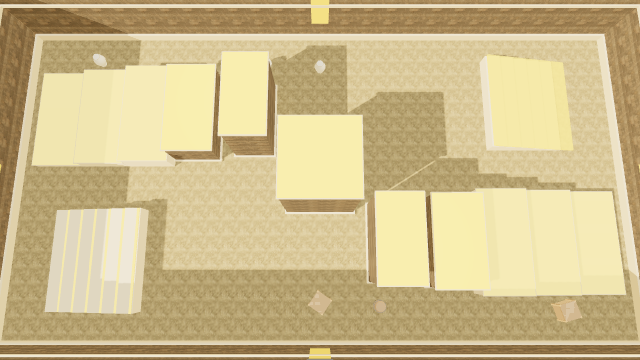
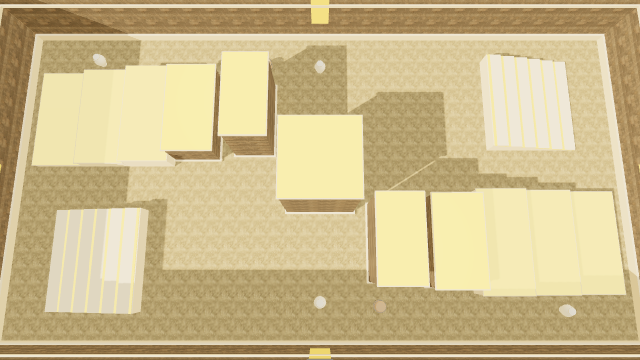
Batch 65: every arena is the same from either end
"In skyward temple, on one side there is a ramp and on the other side there are
stairs... The arenas should all have perfect 180 degree rotational symmetry, so
that both players have the exact same situation for every map."

tests/symmetrycheck.js asserts it rather than eyeballing it: rotate every piece
180 degrees about the arena centre and it must land on another piece of the same
kind and size. Run against the map DATA first - platforms, terrain, pillars,
hazards and the two spawns, on all ten arenas - and all ten passed. So the data
was never the problem, and the asymmetry was everything built on top of it:

- The scenery SPOTS were symmetric but the prop TYPE was chosen by list index:
  spot 0 at (L+200, T+90) and its opposite number, spot 5 at (R-200, B-90), got
  set[0] and set[1]. Every pair on every arena was two different objects. On
  Skyward Temple that is a ramp facing a set of stairs.
- Rotation was `mapRng() * Math.PI` per prop, so even matching pairs faced
  different ways.
- The prop builders draw their own shape from Math.random() - a rock's lumps, a
  bush's leaves, an ice shard's spikes - so calling a builder twice makes two
  different objects however carefully they are placed. Same for pillars,
  platforms and terrain.
- The four outer walls generate their skylines from a shared RNG stream, so the
  north wall never matched the south.

One helper now expresses the rule for all of it: buildPairedFromData walks the
[…]

Changed region(s): [[0.75, 0.1528, 0.9062, 0.4278], [0.8438, 0.825, 0.9062, 0.9167], [0.4688, 0.7944, 0.5312, 0.8861]]

diff --git a/index.html b/index.html
@@ -3394,6 +3394,9 @@ function worldZ(y) { return y - ARENA_CY; }
 function hashStr(s) { let h = 1779033703 ^ s.length; for (let i = 0; i < s.length; i++) { h = Math.imul(h ^ s.charCodeAt(i), 3432918353); h = h << 13 | h >>> 19; } return h >>> 0; }
 function mulberry32(a) { return function () { a |= 0; a = a + 0x6D2B79F5 | 0; let t = Math.imul(a ^ a >>> 15, 1 | a); t = t + Math.imul(t ^ t >>> 7, 61 | t) ^ t; return ((t ^ t >>> 14) >>> 0) / 4294967296; }; }
 let mapRng = Math.random; // reseeded per map in loadMap()
+// The name the current seeds derive from. buildOuterWall reseeds per wall PAIR
+// (see the note there) and needs the same source the map's own seed came from.
+let currentMapName = '';
 
 // Batch 31: TOUCH_UI is gone along with the touch control scheme. It used to
 // select a reduced-quality renderer path (no antialias, no shadows, pixel
@@ -5496,6 +5499,44 @@ function buildPillarMesh(ob, theme) {
 // A solid block: short ones read as jump-on cover platforms, tall ones as
 // full interior walls (collision is the same). Uses the theme wall texture
 // so interior cover matches the perimeter, with a glowing accent-trimmed top.
+// BUILD ONE OF EACH PAIR, CLONE THE OTHER.
+//
+// "The arenas should all have perfect 180 degree rotational symmetry, so that
+// both players have the exact same situation for every map."
+//
+// The map DATA has always been symmetric - symmetrycheck asserts it for all ten
+// arenas - but the builders decorate with Math.random(), so two calls for two
+// mirrored positions produce two different objects. That is what the report
+// "on one side there is a ramp and on the other side there are stairs" was.
+//
+// So: walk the authored list, build the first of each rotational pair, and
+// clone the second with its facing a half-turn further round. A clone shares
+// geometry and materials, so this is also cheaper than building both.
+//
+// `build` is expected to position its result and add it to mapGroup (which is
+// what the existing builders do), so the clone is placed and added here. Getting
+// that wrong left two of Voltaic Nexus's four pillars built but never in the
+// scene.
+function buildPairedFromData(list, build) {
+    const CX = (ARENA_LEFT + ARENA_RIGHT) / 2, CY = (ARENA_TOP + ARENA_BOTTOM) / 2;
+    const built = [];
+    for (const item of list) {
+        const twin = built.find(b => Math.abs(b.x - (2 * CX - item.x)) < 2
+                                  && Math.abs(b.y - (2 * CY - item.y)) < 2);
+        let mesh;
+        if (twin) {
+            mesh = twin.mesh.clone();
+            mesh.position.set(worldX(item.x), twin.mesh.position.y, worldZ(item.y));
+            mesh.rotation.y = twin.mesh.rotation.y + Math.PI;
+            mapGroup.add(mesh);
+        } else {
+            mesh = build(item);
+        }
+        built.push({ x: item.x, y: item.y, mesh });
+        mapEdgeObjects.push({ mesh, x: item.x, y: item.y });
+    }
+}
+
 function buildPlatformMesh(p, theme) {
     const group = new THREE.Group();
     // Batch 34: was `getWallTexture(theme).clone()` per platform. The clone
@@ -5656,6 +5697,18 @@ let outerWalls = []; // {mesh, side, baseLen} — the 4 enclosing walls; syncAre
 // so a uniform group.scale along local X shrinks the run.
 function buildOuterWall(side, theme) {
     const runX = (side === 'top' || side === 'bottom');
+    // OPPOSITE WALLS DRAW THE SAME NUMBERS.
+    //
+    // The skyline - battlements, ivy, ice spikes - comes out of mapRng(), which
+    // is a stream: each wall pulls different values, so the north wall never
+    // matched the south. Under "perfect 180 degree rotational symmetry, so that
+    // both players have the exact same situation", that is the same defect as a
+    // ramp facing a set of stairs, only further away.
+    //
+    // Reseeding per PAIR gives the two walls of an axis an identical skyline,
+    // while the map name still decides what that skyline is - so every arena
+    // keeps its own look and reloads identically.
+    mapRng = mulberry32(hashStr(currentMapName + ':wall:' + (runX ? 'x' : 'y')));
     const along = runX ? (ARENA_RIGHT - ARENA_LEFT) : (ARENA_BOTTOM - ARENA_TOP);
     const wtex = getTiledWallTexture(theme,           // Batch 34: see buildPlatformMesh
         Math.max(3, Math.round(along / 80)),
@@ -5748,6 +5801,7 @@ function loadMap(map) {
     mapEdgeObjects = [];
     outerWalls = [];
     sceneryFlames.length = 0; // drop references to the previous map's (now-disposed) brazier flames
+    currentMapName = map.name;
     mapRng = mulberry32(hashStr(map.name)); // deterministic skyline + prop layout for this map
 
     const theme = themeFor(map);
@@ -5826,9 +5880,13 @@ function loadMap(map) {
     // OBSTACLES, not map.obstacles: in Zone Control the centre ones were just
     // filtered out, and building their meshes anyway would leave a column you
     // can see and walk through.
-    OBSTACLES.forEach(ob => mapEdgeObjects.push({ mesh: buildPillarMesh(ob, theme), x: ob.x, y: ob.y }));
-    TERRAIN.forEach(t => mapEdgeObjects.push({ mesh: (t.type === 'ramp' ? buildRampMesh : buildStepMesh)(t, theme), x: t.x, y: t.y }));
-    PLATFORMS.forEach(p => mapEdgeObjects.push({ mesh: buildPlatformMesh(p, theme), x: p.x, y: p.y }));
+    buildPairedFromData(OBSTACLES, ob => buildPillarMesh(ob, theme));
+    // ...and the ground pieces. A ramp and a step are different builders, so
+    // the pair carries its own: whichever the data asks for, its opposite
+    // number is a clone of the same thing. This is the reported case verbatim -
+    // "on one side there is a ramp and on the other side there are stairs".
+    buildPairedFromData(TERRAIN, t => (t.type === 'ramp' ? buildRampMesh : buildStepMesh)(t, theme));
+    buildPairedFromData(PLATFORMS, p => buildPlatformMesh(p, theme));
     buildScenery(map, theme); // decorative + collidable props, themed per map
 
     assertSpawnsClear(map);
@@ -6010,10 +6068,46 @@ function _makeProp(type, theme) {
 function _propRadius(type) { return { barrel: 16, urn: 15, bush: 18, rock: 16, boulder: 22, shard: 16, pylon: 14 }[type] || 20; }
 
 function buildScenery(map, theme) {
+    // Its own seed, because buildOuterWall now reseeds per wall pair and would
+    // otherwise leave the stream wherever the last wall finished - which would
+    // make a map's prop layout depend on wall-building order.
+    mapRng = mulberry32(hashStr(map.name + ':props'));
     const L = ARENA_LEFT, R = ARENA_RIGHT, T = ARENA_TOP, B = ARENA_BOTTOM, accent = theme.accent, sc = theme.scenery;
-    const addSolid = (mesh, x, y, r) => {
-        mesh.position.set(worldX(x), 0, worldZ(y)); mesh.rotation.y = mapRng() * Math.PI;
+    // ROTATION IS PASSED IN, not rolled here. It used to be
+    // `mapRng() * Math.PI` per prop, which meant that even where two props
+    // were a matched pair they faced different ways - see addPair.
+    const addSolid = (mesh, x, y, r, rotY) => {
+        mesh.position.set(worldX(x), 0, worldZ(y));
+        mesh.rotation.y = rotY != null ? rotY : mapRng() * Math.PI;
         mapGroup.add(mesh); OBSTACLES.push({ x, y, r, seed: 0 }); mapEdgeObjects.push({ mesh, x, y });
+    };
+    // EVERY PROP IS PLACED WITH ITS OPPOSITE NUMBER.
+    //
+    // "The arenas should all have perfect 180 degree rotational symmetry, so
+    // that both players have the exact same situation for every map." The
+    // arena geometry already was; the decoration was not, because the spots
+    // were symmetric while the prop TYPE was picked by list index - spot 0 and
+    // its opposite, spot 5, got set[0] and set[1]. Reported as a ramp on one
+    // side and stairs on the other.
+    //
+    // A pair is one call now: the partner's position is derived by rotating
+    // about the arena centre and its facing is exactly pi further round, so the
+    // two cannot drift apart however the list is edited later.
+    const CX = (ARENA_LEFT + ARENA_RIGHT) / 2, CY = (ARENA_TOP + ARENA_BOTTOM) / 2;
+    const addPair = (make, x, y, r) => {
+        const rotY = mapRng() * Math.PI;
+        // BUILT ONCE AND CLONED. The prop builders use Math.random() for their
+        // own shape - a rock's lumps, a bush's leaves, an ice shard's spikes -
+        // so calling the builder twice makes two different objects however
+        // carefully they are placed. A clone shares geometry and materials, so
+        // the pair is the same object seen from the other end of the arena, and
+        // it costs less than building it twice did.
+        const first = make();
+        for (const [px, py, pr, mesh] of [[x, y, rotY, first],
+                                          [2 * CX - x, 2 * CY - y, rotY + Math.PI, first.clone()]]) {
+            if (nearSpawnPt(map, px, py, 80) || spotBlocked(px, py, r + 8)) continue;
+            addSolid(mesh, px, py, r, pr);
+        }
     };
     // Corner accent prop varies by theme (a fire brazier for stone arenas, a
     // glowing pylon / ice shard / boulder / bush otherwise).
@@ -6023,9 +6117,9 @@ function buildScenery(map, theme) {
         celestial: () => buildTechPylon(theme)
     }[sc] || (() => buildBrazier(accent)); // volcanic/temple/castle get fire braziers
     const inset = 110;
-    for (const [x, y] of [[L + inset, T + inset], [R - inset, T + inset], [L + inset, B - inset], [R - inset, B - inset]]) {
-        if (nearSpawnPt(map, x, y, 90) || spotBlocked(x, y, 30)) continue;
-        addSolid(cornerBuild(), x, y, sc === 'canyon' ? 20 : 14);
+    // Two pairs, not four corners: the far corner of each is derived.
+    for (const [x, y] of [[L + inset, T + inset], [R - inset, T + inset]]) {
+        addPair(cornerBuild, x, y, sc === 'canyon' ? 20 : 14);
     }
     // Scattered solid props (theme-specific set), skipping spawns/geometry.
     const set = {
@@ -6035,15 +6129,16 @@ function buildScenery(map, theme) {
         volcanic: ['rock', 'boulder', 'crate', 'rock'], jungle: ['bush', 'rock', 'urn', 'bush'],
         celestial: ['urn', 'pylon', 'urn', 'crate'], coral: ['shard', 'rock', 'shard', 'crate']
     }[sc] || ['crate', 'barrel'];
+    // HALF the spots, each of which places two. The other half of the old list
+    // was these points' own opposites, which is what made the index-based type
+    // choice pair a crate with a barrel.
     const spots = [
-        [L + 200, T + 90], [R - 200, T + 90], [L + 90, (T + B) / 2 - 120], [R - 90, (T + B) / 2 + 120],
-        [L + 200, B - 90], [R - 200, B - 90], [(L + R) / 2 - 150, T + 100], [(L + R) / 2 + 150, B - 100],
-        [(L + R) / 2, T + 110], [(L + R) / 2, B - 110]
+        [L + 200, T + 90], [R - 200, T + 90], [L + 90, (T + B) / 2 - 120],
+        [(L + R) / 2 - 150, T + 100], [(L + R) / 2, T + 110],
     ];
     spots.forEach(([x, y], i) => {
         const type = set[i % set.length], r = _propRadius(type);
-        if (nearSpawnPt(map, x, y, 80) || spotBlocked(x, y, r + 8)) return;
-        addSolid(_makeProp(type, theme), x, y, r);
+        addPair(() => _makeProp(type, theme), x, y, r);
     });
     // Wall banners only for the built/stone arenas.
     if (sc === 'castle' || sc === 'temple' || sc === 'grove' || sc === 'jungle' || sc === 'celestial') {

diff --git a/tests/symmetrycheck.js b/tests/symmetrycheck.js
@@ -1,0 +1,136 @@
+// EVERY ARENA HAS 180-DEGREE ROTATIONAL SYMMETRY.
+//
+// Reported: "in skyward temple, on one side there is a ramp and on the other
+// side there are stairs, and while this doesn't matter for playing the game, it
+// matters for looks. The arenas should all have perfect 180 degree rotational
+// symmetry, so that both players have the exact same situation for every map."
+//
+// It is a property of the map DATA, so it can be asserted rather than looked
+// at: rotate every piece of geometry 180 degrees about the arena centre and it
+// must land on another piece of the same kind and size. That also makes it
+// fair, not only tidy - whatever cover one spawn has, the other has the same.
+const H = require('./harness');
+
+// Two pieces match if their rotated position is within this many units and
+// their dimensions agree. Positions are authored by hand, so exact equality
+// would fail on rounding that nobody can see.
+const POS_TOL = 1.5;
+const DIM_TOL = 1.0;
+
+(async () => {
+    const browser = await H.launch();
+    await H.startServer();
+    const { check, section, finish } = H.makeChecker();
+    const page = await H.boot(await H.newPage(browser), { clearStorage: true });
+
+    const report = await page.evaluate((tol) => {
+        const D = window.ACDebug;
+        const [POS_TOL, DIM_TOL] = tol;
+        // The arena's centre of rotation, from the same constants the arena is
+        // built with.
+        const CX = (60 + (1755 - 60)) / 2, CY = (60 + (975 - 60)) / 2;
+        const rot = p => ({ x: 2 * CX - p.x, y: 2 * CY - p.y });
+
+        const out = {};
+        for (const map of D.MAPS) {
+            const problems = [];
+            // Each kind is matched against its own kind: a platform must answer
+            // a platform, not a pillar that happens to be nearby.
+            const kinds = {
+                platforms: (map.platforms || []).map(p => ({ x: p.x, y: p.y, a: p.hw, b: p.hd, c: p.h || 0 })),
+                terrain: (map.terrain || []).map(p => ({ x: p.x, y: p.y, a: p.hw, b: p.hd, c: p.h || 0 })),
+                obstacles: (map.obstacles || []).map(p => ({ x: p.x, y: p.y, a: p.r, b: p.r, c: p.h || 0 })),
+                hazards: (map.hazards || []).map(p => ({ x: p.x, y: p.y, a: p.r || p.hw || 0, b: p.r || p.hd || 0, c: 0 })),
+            };
+            for (const kind of Object.keys(kinds)) {
+                const list = kinds[kind];
+                for (const item of list) {
+                    const want = rot(item);
+                    const hit = list.find(o =>
+                        Math.abs(o.x - want.x) <= POS_TOL && Math.abs(o.y - want.y) <= POS_TOL
+                        && Math.abs(o.a - item.a) <= DIM_TOL && Math.abs(o.b - item.b) <= DIM_TOL
+                        && Math.abs(o.c - item.c) <= DIM_TOL);
+                    if (!hit) {
+                        problems.push(`${kind} at (${Math.round(item.x)},${Math.round(item.y)}) `
+                            + `[${item.a}x${item.b}x${item.c}] has nothing at `
+                            + `(${Math.round(want.x)},${Math.round(want.y)})`);
+                    }
+                }
+            }
+            // The spawns have to be each other's mirror too, or one player
+            // starts closer to the middle.
+            const s1 = map.spawn1, s2 = map.spawn2;
+            if (s1 && s2) {
+                const want = rot(s1);
+                if (Math.abs(s2.x - want.x) > POS_TOL || Math.abs(s2.y - want.y) > POS_TOL) {
+                    problems.push(`spawns are not opposite: (${s1.x},${s1.y}) rotates to `
+                        + `(${Math.round(want.x)},${Math.round(want.y)}), but spawn2 is (${s2.x},${s2.y})`);
+                }
+            }
+            out[map.name] = problems;
+        }
+        return out;
+    }, [POS_TOL, DIM_TOL]);
+
+    // ...and the SCENERY, which is where the reported asymmetry actually was.
+    // The map data was already symmetric; the decoration placed on top of it
+    // was not, because paired spots chose their prop by list index.
+    const scenery = await page.evaluate(async (tol) => {
+        const D = window.ACDebug;
+        const [POS_TOL] = tol;
+        const CX = (60 + (1755 - 60)) / 2, CY = (60 + (975 - 60)) / 2;
+        const out = {};
+        for (const map of D.MAPS) {
+            D.loadMap(map);
+            await new Promise(r => requestAnimationFrame(() => r()));
+            // Every solid prop the arena placed, by position and silhouette.
+            const props = [];
+            D.mapGroup.traverse(o => {
+                if (!o.isMesh || !o.parent || o.parent === D.mapGroup) {
+                    // Props are added as groups or meshes directly under
+                    // mapGroup; measure whatever sits at that level.
+                }
+            });
+            for (const child of D.mapGroup.children) {
+                const b = new THREE.Box3().setFromObject(child);
+                if (!isFinite(b.min.x)) continue;
+                const c = b.getCenter(new THREE.Vector3());
+                const s = b.getSize(new THREE.Vector3());
+                // Back into game space, which is what the map is authored in.
+                props.push({
+                    x: c.x + (60 + 1755 - 60) / 2, y: c.z + (60 + 975 - 60) / 2,
+                    w: +s.x.toFixed(1), h: +s.y.toFixed(1), d: +s.z.toFixed(1),
+                });
+            }
+            const problems = [];
+            for (const p of props) {
+                const wx = 2 * CX - p.x, wy = 2 * CY - p.y;
+                const hit = props.find(o => Math.abs(o.x - wx) <= POS_TOL * 4
+                    && Math.abs(o.y - wy) <= POS_TOL * 4
+                    && Math.abs(o.w - p.w) <= 2.5 && Math.abs(o.h - p.h) <= 2.5);
+                if (!hit) problems.push(`prop at (${Math.round(p.x)},${Math.round(p.y)}) [${p.w}x${p.h}]`);
+            }
+            out[map.name] = { count: props.length, problems: problems.slice(0, 3),
+                              bad: problems.length };
+        }
+        return out;
+    }, [POS_TOL, DIM_TOL]);
+
+    section('Every arena reads the same from either spawn:');
+    let worst = 0;
+    for (const name of Object.keys(report)) {
+        const problems = report[name];
+        worst = Math.max(worst, problems.length);
+        check(`${name}: 180° rotationally symmetric`,
+            problems.length === 0, problems.slice(0, 4).join(' | '));
+    }
+
+    section('...and so does everything placed on it:');
+    for (const name of Object.keys(scenery)) {
+        const r = scenery[name];
+        check(`${name}: scenery is symmetric too (${r.count} objects)`,
+            r.bad === 0, JSON.stringify(r.problems));
+    }
+
+    await finish(browser, page);
+})();
